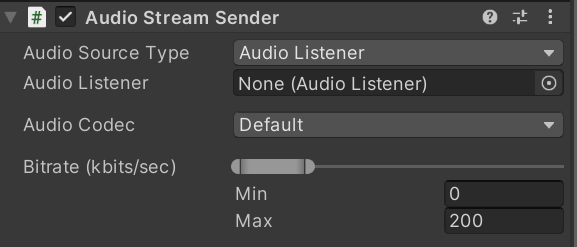
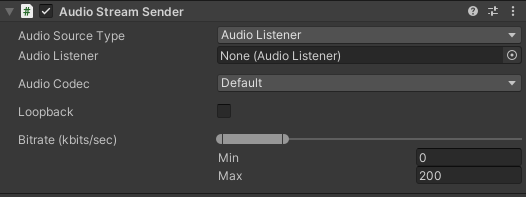
doc: Add doc audio loopback (#927)

diff --git a/Documentation~/audio-streaming.md b/Documentation~/audio-streaming.md
@@ -15,9 +15,10 @@ This component streams the audio rendering results from [`AudioListener`](https:
 | **Audio Source Type** | Choose the type of source for your audio streaming.  <br/> - *Audio Listener* <br/> - *Audio Source* <br/> - *Microphone* | *Audio Listener* |
 | *Audio Listener* | [`Audio Listener`](https://docs.unity3d.com/ScriptReference/AudioSource.html) instance for sending audio | |
 | *Audio Source* | [`Audio Source`](https://docs.unity3d.com/ScriptReference/AudioSource.html) instance for sending audio | |
-| *Microphone Device Index* | The index of the video input device to be used. See [Microphone.devices](https://docs.unity3d.com/ScriptReference/Microphone-devices.html). | 0 |
+| *Microphone Device Index* | The index of the microphone input device to be used. See [Microphone.devices](https://docs.unity3d.com/ScriptReference/Microphone-devices.html). | 0 |
 | *Auto Request User Authorization* | Whether request permission to use microphone. You don't need to enable it if you call [Application.RequestUserAuthorization](https://docs.unity3d.com/ScriptReference/Application.RequestUserAuthorization.html) yourself. | Enabled |
 | **Audio Codec** | *Default* option means trying to use all available codecs for negotiating other peers. | Default |
+| *Loopback* | The sending audio is also played on sender side. | Disabled |
 | **Bitrate (kbits/sec)** | The bitrate of the audio streaming. | |
 | *Min* | The minimum value of the bitrate. | 0 |
 | *Max* | The maximum value of the bitrate. | 1000 |
